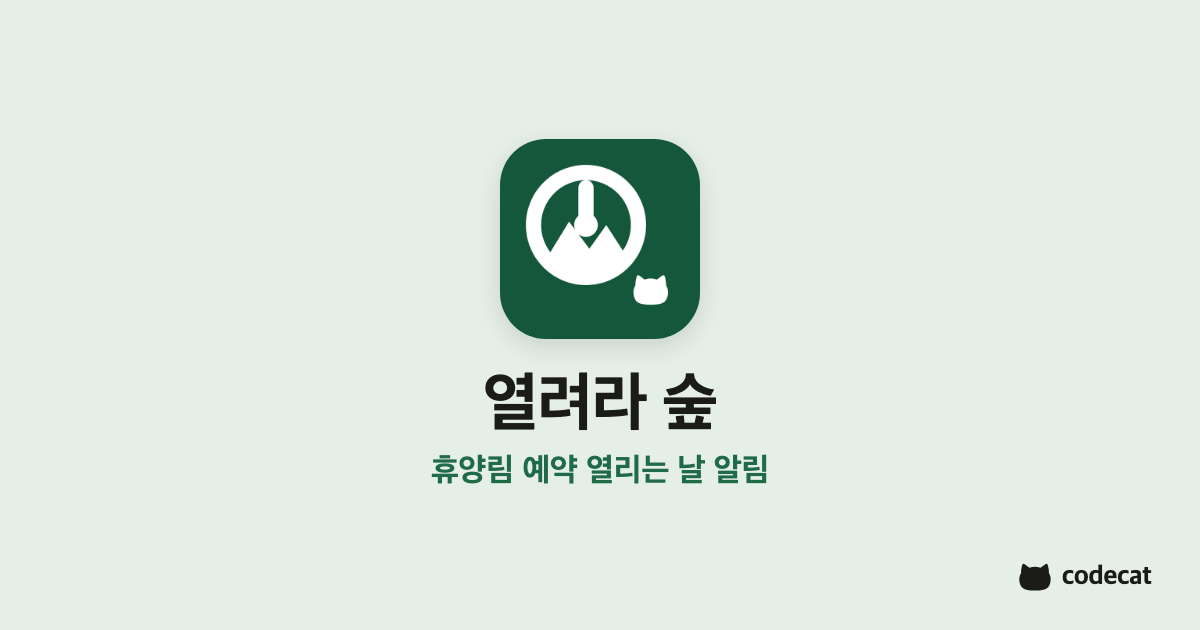
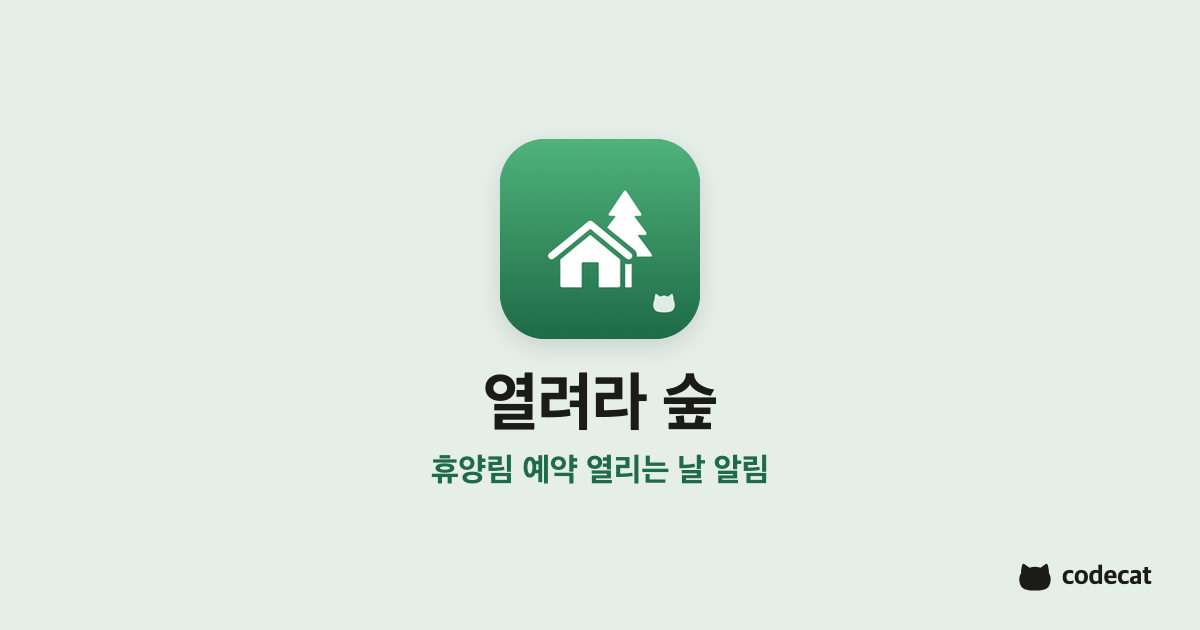
feat(site): random hero cat from the cheese-cat family; refresh app og images

Changed region(s): [[0.4008, 0.2111, 0.5858, 0.5127]]

diff --git a/index.html b/index.html
@@ -87,7 +87,16 @@ footer img{width:34px;height:34px;display:block}
   <div class="hero">
     <div><h1>쓸모 있는 앱을<br><span>만듭니다</span></h1>
     <p class="lead">코드캣(codecat)은 누구나 쉽게 쓰는 앱과 도구를 만드는 작은 팀이에요.</p></div>
-    <div class="ground"><picture><source media="(max-width:600px)" srcset="cats/side-r.png"><img src="cats/side.png" alt="" width="288" height="288"></picture></div>
+    <div class="ground" id="ground"><noscript><picture><source media="(max-width:600px)" srcset="cats/side-r.png"><img src="cats/side.png" alt="" width="192" height="192"></picture></noscript></div>
+    <script>
+    // 가운데 고양이는 방문마다 치즈냥 가족 8포즈 중 하나 (저장·쿠키 없음). JS가 없으면 위 noscript의 앉은 고양이. #pose=이름 으로 고정해 볼 수 있음.
+    (function(){var P={front:1,side:0,sleep:0,loaf:0,back:1,look:0,peek:1,face:1},k=Object.keys(P),
+    m=(location.hash.match(/pose=(\w+)/)||[])[1],n=P.hasOwnProperty(m)?m:k[Math.floor(Math.random()*k.length)],
+    f=function(q,s){return"cats/hero/"+q+"-"+(P[q]?"l":s)+".webp"},
+    r=window.matchMedia&&matchMedia("(max-width:600px)").matches?"r":"l";
+    document.getElementById("ground").innerHTML='<picture><source media="(max-width:600px)" srcset="'+f(n,"r")+'"><img src="'+f(n,"l")+'" alt="" width="192" height="192"></picture>';
+    addEventListener("load",function(){setTimeout(function(){k.forEach(function(q){if(q!==n)new Image().src=f(q,r)})},600)})})();
+    </script>
   </div>
   <section class="apps" aria-labelledby="work">
     <img class="peek" src="cats/peek.png" alt="" width="192" height="192">

diff --git a/scripts/refresh-icons.py b/scripts/refresh-icons.py
@@ -18,6 +18,9 @@ APPS = {  # App Store id -> repo paths that show the app icon
     "6834396044": ["sigol-jangteo/s/icon.png"],   # 오일장축제
     "6830167601": ["hyuyangrim/s/icon.png"],      # 열려라 숲
 }
+# share images (1200x630): the app icon sits in a fixed 200x200 box (x500,y139); only that box is replaced
+OGS = {"6834396044": "sigol-jangteo/s/og.png", "6830167601": "hyuyangrim/s/og.png"}
+OG_BOX, OG_R = (500, 139, 200, 200), 45
 TOLERANCE = 2.0  # mean abs channel diff (0-255) allowed between page icon and store art
 
 
@@ -43,6 +46,25 @@ def diff(a, b):
     return sum(ImageStat.Stat(ImageChops.difference(a, b)).mean) / 3
 
 
+def og_mask():
+    x = Image.new("L", (800, 800), 0)
+    from PIL import ImageDraw
+    ImageDraw.Draw(x).rounded_rectangle((0, 0, 799, 799), radius=OG_R * 4, fill=255)
+    return x.resize((OG_BOX[2], OG_BOX[3]), Image.LANCZOS)
+
+
+def og_icon(img):
+    return img.resize((OG_BOX[2], OG_BOX[3]), Image.LANCZOS)
+
+
+def og_diff(og, img):
+    """mean diff inside the icon box, 8 px in from the edge (skips the rounded-corner anti-aliasing)"""
+    x, y, w, h = OG_BOX
+    a = og.convert("RGB").crop((x + 8, y + 8, x + w - 8, y + h - 8))
+    b = og_icon(img).crop((8, 8, w - 8, h - 8))
+    return sum(ImageStat.Stat(ImageChops.difference(a, b)).mean) / 3
+
+
 def main():
     mode = sys.argv[1] if len(sys.argv) > 1 else ""
     bad = changed = 0
@@ -64,6 +86,18 @@ def main():
                 print(f"DRIFT {rel} ({name}) diff {d:.2f}"); bad += 1; continue
             p.parent.mkdir(parents=True, exist_ok=True); p.write_bytes(png_bytes(img))
             print(f"wrote {rel} ({name}) was diff {d:.2f}"); changed += 1
+        og = OGS.get(app_id)
+        if og:
+            site = sys.argv[2].rstrip("/") if mode == "--live" else None
+            cur = Image.open(io.BytesIO(get(f"{site}/{og}?v={app_id}"))) if site else (Image.open(ROOT / og) if (ROOT / og).exists() else None)
+            d = og_diff(cur, img) if cur else 999
+            if d <= TOLERANCE:
+                print(f"same {og} diff {d:.2f}")
+            elif mode in ("--check", "--live"):
+                print(f"DRIFT {og} diff {d:.2f}"); bad += 1
+            else:
+                base = cur.convert("RGB"); base.paste(og_icon(img), OG_BOX[:2], og_mask())
+                (ROOT / og).write_bytes(png_bytes(base)); print(f"wrote {og} was diff {d:.2f}"); changed += 1
     sys.exit(1 if bad else 0)
 
 

diff --git a/scripts/build-hero-poses.py b/scripts/build-hero-poses.py
@@ -1,0 +1,52 @@
+#!/usr/bin/env python3
+"""Build the homepage hero cat poses (cats/hero/*.webp) from the cheese-cat family PNGs (11-13 set).
+
+  python3 scripts/build-hero-poses.py [SRC_DIR]     # default: ~/codecat-hq/docs/design/cat-logo-family-20261114/p
+Needs Pillow. Every pose is placed on the same 192x192 canvas, centred on its body and with its
+lowest pixel on row 185 (the row side.png uses today), so all poses sit on the hero line with no layout jump.
+No new drawing: only shift / scale / re-encode.
+"""
+import sys
+from pathlib import Path
+from PIL import Image
+
+SRC = Path(sys.argv[1]) if len(sys.argv) > 1 else Path.home() / "codecat-hq/docs/design/cat-logo-family-20261114/p"
+OUT = Path(__file__).resolve().parent.parent / "cats" / "hero"
+BASE, N = 185, 192
+# pose -> (file facing left, file facing right); same file twice = one drawing for both
+POSES = {
+    "front": ("front", "front"), "side": ("side", "side-r"), "sleep": ("sleep", "sleep-r"),
+    "loaf": ("loaf-l", "loaf"), "back": ("walk", "walk"), "look": ("lookback-l", "lookback-r"),
+    "peek": ("peek", "peek"), "face": ("head", "head"),
+}
+FACE_W = 168  # the face crop is a close-up; scale it down so it reads as a cat head, not a mask
+
+
+def place(name):
+    im = Image.open(SRC / f"{name}.png").convert("RGBA")
+    if im.width > N:
+        im = im.resize((FACE_W, FACE_W), Image.LANCZOS)
+    box = im.split()[3].point(lambda v: 255 if v > 24 else 0).getbbox()
+    c = Image.new("RGBA", (N, N), (0, 0, 0, 0))
+    c.paste(im, (N // 2 - (box[0] + box[2]) // 2, BASE + 1 - box[3]), im)
+    return c
+
+
+def main():
+    OUT.mkdir(parents=True, exist_ok=True)
+    made = {}
+    for pose, (l, r) in POSES.items():
+        for side, f in (("l", l), ("r", r)):
+            if f in made:
+                made[(pose, side)] = made[f]
+                continue
+            p = OUT / f"{pose}-{side}.webp"
+            place(f).save(p, "WEBP", quality=82, method=6, alpha_quality=90)
+            made[(pose, side)] = p
+            print(p.name, p.stat().st_size)
+        if l == r:  # symmetric: one file only
+            (OUT / f"{pose}-r.webp").unlink(missing_ok=True)
+    print("poses:", ",".join(POSES))
+
+
+main()
